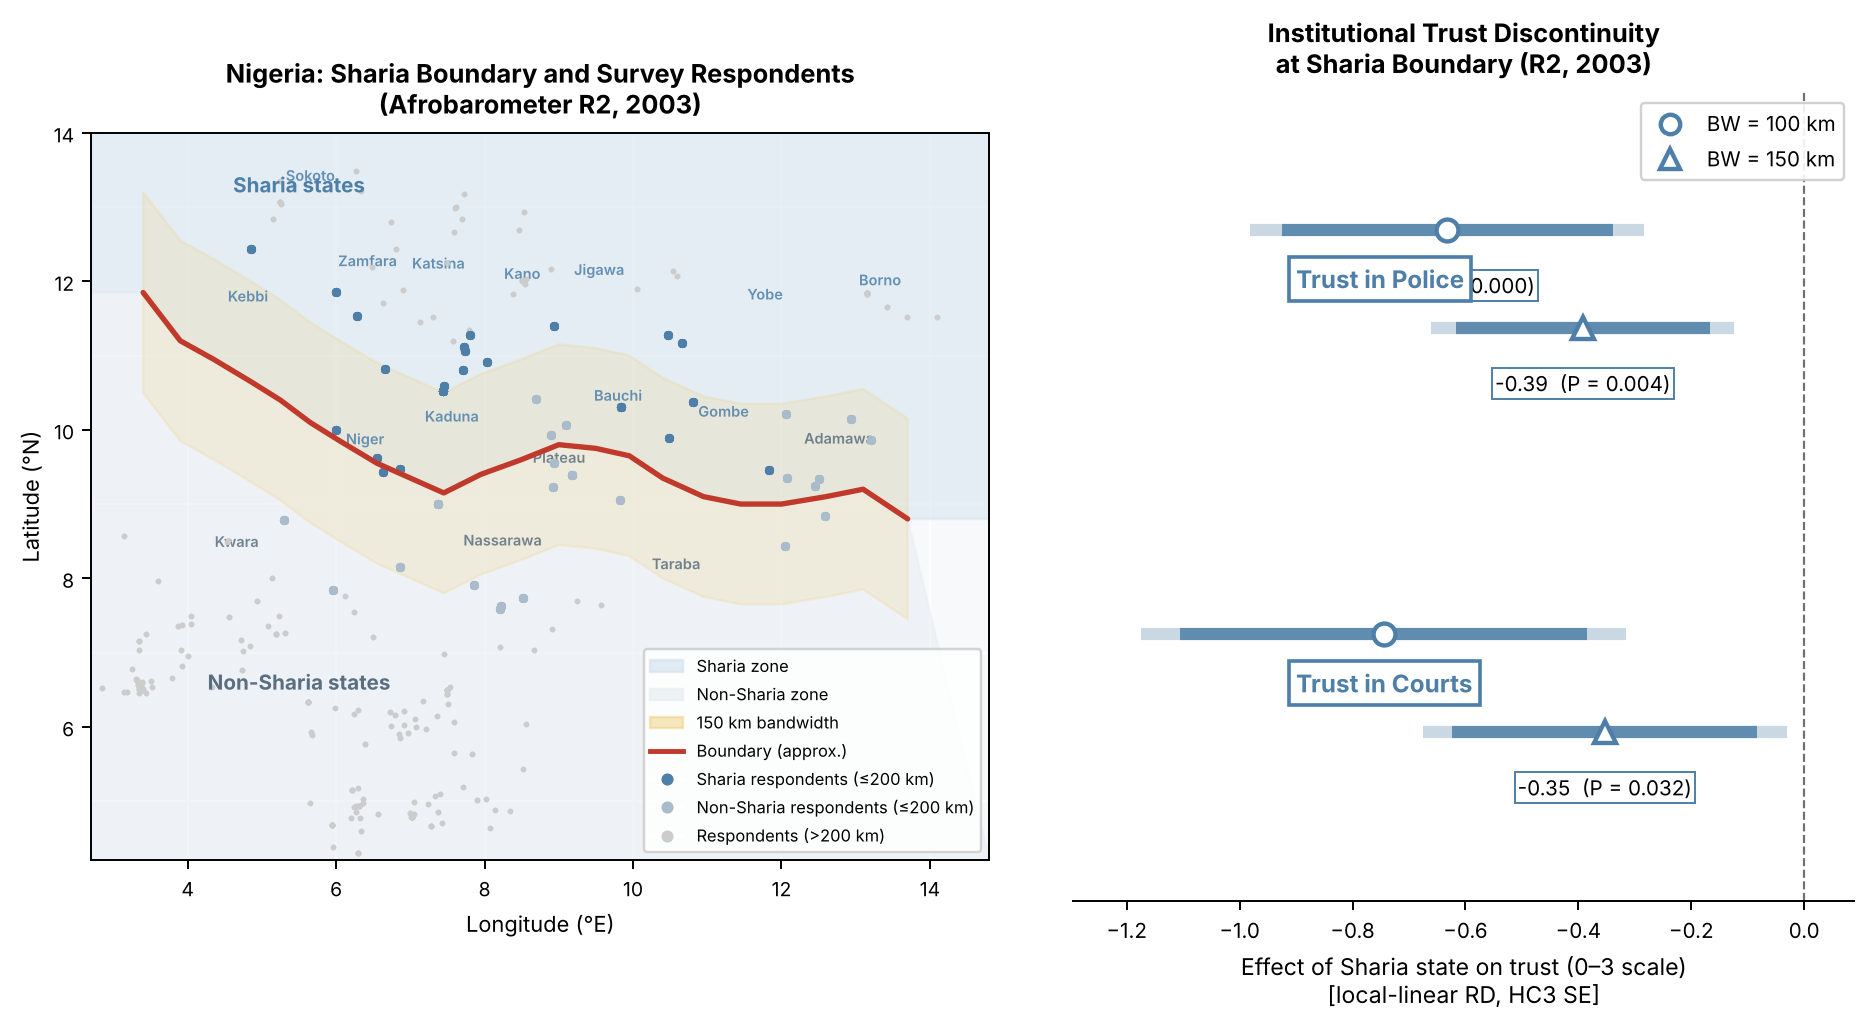
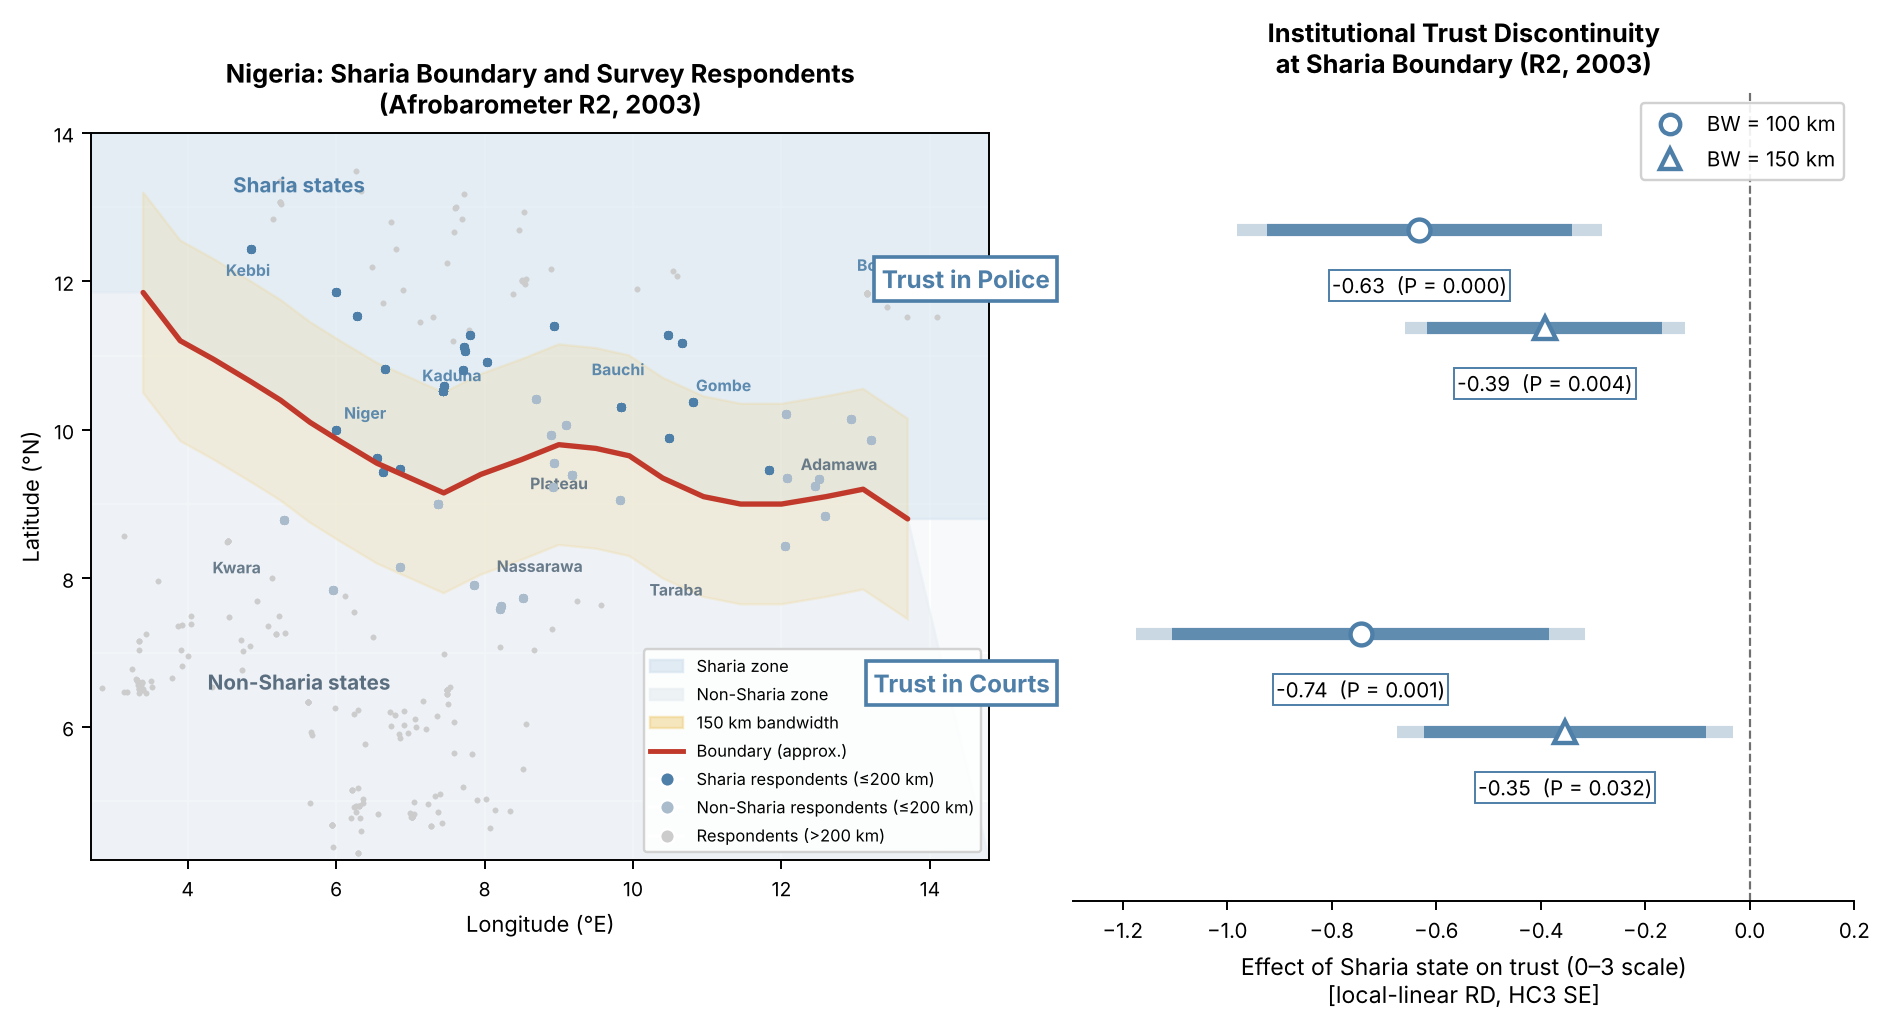
Fix Sharia RD figure: map labels, coef plot layout, significance threshold
- Map: reduce state labels to border states only (11 states vs 17);
  use bold font and manual offsets to avoid overlap with respondent dots
- Coef plot: anchor group labels with blended transform (axes-x / data-y)
  so they never clip regardless of data xlim
- Bold/coloured label threshold changed to primary spec (BW=150 km) p<0.05
  rather than requiring both specs to be significant
- x-axis right padding: always shows at least 0.20 to right of zero dashed line

Claude-Session: https://claude.ai/code/session_01Koeo3bFt6ZjMRgFm1jpNua

diff --git a/sharia_rd_figure.py b/sharia_rd_figure.py
@@ -155,22 +155,25 @@ by = [c[1] for c in SHARIA_BOUNDARY_COORDS]
 ax.plot(bx, by, color=C_LINE, linewidth=2.2, zorder=5, solid_capstyle='round',
         label='Sharia boundary (approx.)')
 
-# State centroid labels (selected key states)
-LABEL_STATES = {
-    'Sokoto':   (0.0, 0.15), 'Kebbi':   (0.0, 0.0),  'Zamfara':  (0.0, 0.0),
-    'Katsina':  (0.0, 0.0),  'Kano':    (0.0, 0.15), 'Jigawa':   (0.0, 0.0),
-    'Kaduna':   (0.0, -0.2), 'Niger':   (0.0, 0.0),  'Bauchi':   (0.0, 0.0),
-    'Gombe':    (0.0, 0.0),  'Yobe':    (0.0, 0.0),  'Borno':    (0.0, 0.15),
-    'Kwara':    (0.0, 0.0),  'Nassarawa':(0.0,0.0),  'Plateau':  (0.0, 0.0),
-    'Taraba':   (0.0, 0.0),  'Adamawa': (0.0, 0.0),
+# State labels: border states only (states that share the Sharia/non-Sharia border)
+# Small manual offsets (dlon, dlat) to prevent overlap with respondent dots
+BORDER_LABEL_STATES = {
+    # Sharia side of border
+    'Kebbi':    ( 0.0,  0.35), 'Niger':    ( 0.0,  0.35),
+    'Kaduna':   ( 0.0,  0.35), 'Bauchi':   ( 0.0,  0.35),
+    'Gombe':    ( 0.0,  0.35), 'Borno':    ( 0.0,  0.35),
+    # Non-Sharia side of border
+    'Kwara':    ( 0.0, -0.35), 'Nassarawa':( 0.5, -0.35),
+    'Plateau':  ( 0.0, -0.35), 'Taraba':   ( 0.0, -0.35),
+    'Adamawa':  ( 0.0, -0.35),
 }
 for _, row in state_cents.iterrows():
-    if row['state'] in LABEL_STATES:
-        off = LABEL_STATES[row['state']]
+    if row['state'] in BORDER_LABEL_STATES:
+        dlon, dlat = BORDER_LABEL_STATES[row['state']]
         color = C_SHARIA if row['state'] in SHARIA_STATES else '#5a6e7f'
-        ax.text(row['lon'] + off[0], row['lat'] + off[1], row['state'],
-                fontsize=6.0, ha='center', va='center', color=color,
-                alpha=0.85, fontweight='semibold')
+        ax.text(row['lon'] + dlon, row['lat'] + dlat, row['state'],
+                fontsize=6.5, ha='center', va='center', color=color,
+                alpha=0.90, fontweight='bold')
 
 # Respondent scatter (only within 200 km for clarity)
 near = r2[r2['dist_km'].abs() <= 200].copy()
@@ -283,20 +286,24 @@ for _, row in results_df.iterrows():
                       linewidth=0.8),
             zorder=5)
 
-# Outcome group labels (bold, boxed, left side)
-# Determine x position for labels (left of plot area)
-x_label = -0.90
+# Outcome group labels — placed just left of the axes using axes-fraction x so
+# they are never clipped regardless of the data xlim.
+from matplotlib.transforms import blended_transform_factory
+label_tf = blended_transform_factory(ax.transAxes, ax.transData)
+
 for g, (label, col) in enumerate(OUTCOMES):
     y_center = (y_positions[(label, 0)] + y_positions[(label, 1)]) / 2
-    # Bold box if both specs are significant at p<0.05
-    sub = results_df[results_df['label'] == label]
-    significant = (sub['pval'] < 0.05).all()
+    # Bold = primary spec (BW 150 km) is significant at p < 0.05
+    primary = results_df[(results_df['label'] == label) & (results_df['bw'] == 150)]
+    significant = len(primary) > 0 and primary.iloc[0]['pval'] < 0.05
     edge_color = C_SHARIA if significant else '#888888'
-    lw         = 1.5 if significant else 0.8
+    lw         = 1.5    if significant else 0.8
     fw         = 'bold' if significant else 'normal'
-    ax.text(x_label, y_center, label,
-            ha='left', va='center', fontsize=10,
-            fontweight=fw, color=CI_COLOR_INNER if significant else '#555555',
+    fc         = CI_COLOR_INNER if significant else '#555555'
+    ax.text(-0.03, y_center, label,
+            transform=label_tf,
+            ha='right', va='center', fontsize=10,
+            fontweight=fw, color=fc, clip_on=False,
             bbox=dict(boxstyle='square,pad=0.3', facecolor='white',
                       edgecolor=edge_color, linewidth=lw),
             zorder=5)
@@ -316,11 +323,12 @@ ax.legend(handles=bw_legend, fontsize=8.5, loc='upper right',
 # Zero line
 ax.axvline(0, color='#333333', linewidth=0.9, linestyle='--', alpha=0.7, zorder=1)
 
-# Axis limits and labels
+# Axis limits: left driven by widest 95% CI, right padded so zero isn't at edge
 all_lo = results_df.apply(lambda r: r['coef'] - 1.96*r['se'], axis=1).min()
 all_hi = results_df.apply(lambda r: r['coef'] + 1.96*r['se'], axis=1).max()
-pad    = 0.12
-ax.set_xlim(all_lo - pad, all_hi + pad)
+x_left  = all_lo - 0.12
+x_right = max(all_hi + 0.12, 0.20)   # always show at least 0.2 to right of zero
+ax.set_xlim(x_left, x_right)
 y_all = list(y_positions.values())
 ax.set_ylim(min(y_all) - 0.55, max(y_all) + 0.45)
 ax.set_yticks([])
